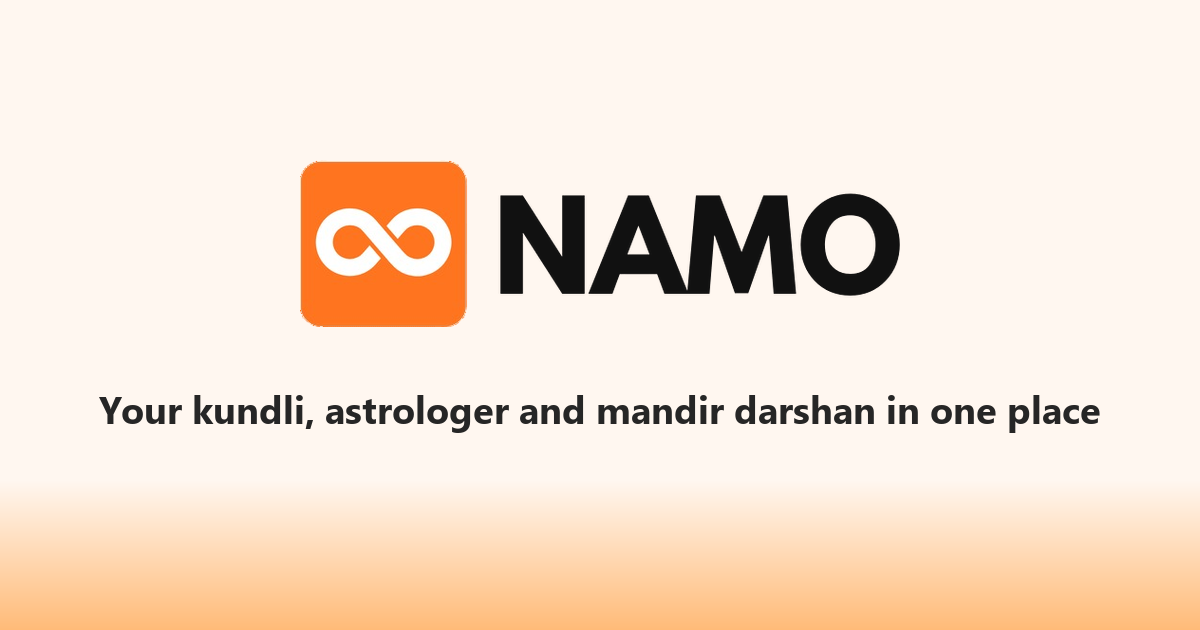
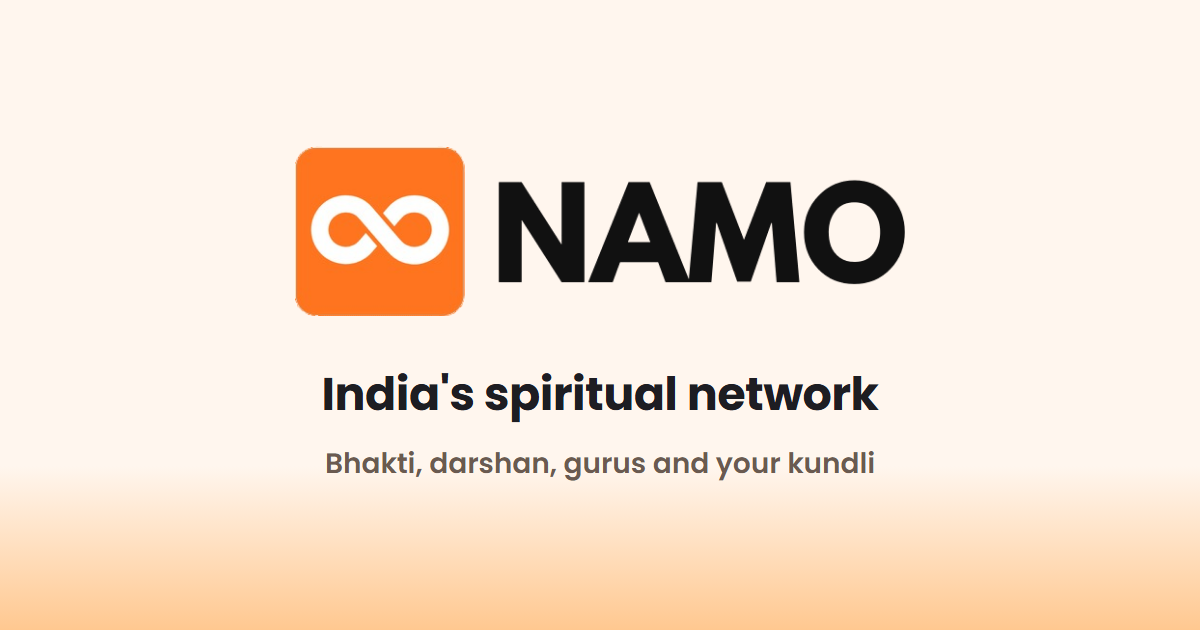
15a: positioned as India's spiritual network — title, description, share card and fallback previews

Changed region(s): [[0.2467, 0.2111, 0.7708, 0.5429], [0.0617, 0.573, 0.925, 0.6937], [0.2467, 0.7238, 0.74, 0.7841]]

diff --git a/index.html b/index.html
@@ -6,7 +6,7 @@
     <meta name="theme-color" content="#ffffff" />
     <meta
       name="description"
-      content="Your kundli, astrologer and mandir darshan in one place. Talk to verified astrologers, read today's rashifal, and sit for darshan."
+      content="India's spiritual network. Follow gurus and astrologers, share your bhakti, sit for darshan every day, and read your kundli."
     />
     <!--
       What WhatsApp, Instagram and every other app show when a 1namo.com link
@@ -16,8 +16,8 @@
     -->
     <meta property="og:type" content="website" />
     <meta property="og:site_name" content="NAMO" />
-    <meta property="og:title" content="NAMO — astrology, darshan and puja" />
-    <meta property="og:description" content="Your kundli, astrologer and mandir darshan in one place." />
+    <meta property="og:title" content="NAMO — India's spiritual network" />
+    <meta property="og:description" content="Bhakti, darshan, gurus and your kundli. Follow, post and share." />
     <meta property="og:url" content="https://1namo.com/" />
     <meta property="og:image" content="https://1namo.com/og.png" />
     <meta property="og:image:width" content="1200" />
@@ -38,7 +38,7 @@
     />
     <link rel="icon" type="image/png" href="/favicon.png" />
     <link rel="apple-touch-icon" href="/apple-touch-icon.png" />
-    <title>NAMO</title>
+    <title>NAMO — India's spiritual network</title>
   </head>
   <body>
     <div id="root"></div>

diff --git a/backend-django/apps/content/share.py b/backend-django/apps/content/share.py
@@ -120,12 +120,17 @@ def _summary(text, limit=180):
     return text if len(text) <= limit else text[: limit - 1].rsplit(" ", 1)[0] + "…"
 
 
+# What a link that matches nothing previews as (13 Oct 2026, Phase 15a:
+# a spiritual network, not "astrology, darshan and the shop").
+SITE_LINE = "India's spiritual network. Bhakti, darshan, gurus and your kundli."
+
+
 def blog_page(request, content_id):
     url = f"{_site()}/read/{content_id}"
     row = Content.objects.filter(pk=content_id, kind=Content.Kind.ARTICLE,
                                  status=Content.Status.LIVE).first()
     if row is None:
-        return _page(_tags(title="NAMO", description="Astrology, darshan and the shop, in one app.",
+        return _page(_tags(title="NAMO", description=SITE_LINE,
                            image=f"{_site()}{FALLBACK_IMAGE}", url=url, kind="website"), url)
     image = f"{_site()}/og/blog/{row.id}.jpg" if row.media_url else f"{_site()}{FALLBACK_IMAGE}"
     return _page(_tags(title=row.title or "A blog on NAMO", description=_summary(row.body),
@@ -229,7 +234,7 @@ def profile_page(request, username):
     url = f"{_site()}/{username}"
     profile, pro = _public_profile(username=username)
     if profile is None:
-        return _page(_tags(title="NAMO", description="Astrology, darshan and puja in one app.",
+        return _page(_tags(title="NAMO", description=SITE_LINE,
                            image=f"{_site()}{FALLBACK_IMAGE}", url=url, kind="website"), url)
     if pro is not None:
         title = f"{profile.name} · {pro.category or 'Pro'} on NAMO"

diff --git a/HANDOFF.md b/HANDOFF.md
@@ -34,6 +34,7 @@ Updated 13 Oct 2026.
 | **15a: like and follow alerts, 13 Oct — built, not deployed** | A like tells the author once per post per IST hour (`dedupe_key` `like:<post>:<hour>`), a follow tells the person once per pair (`follow:<actor>:<target>`), never for your own (`content.services.notify_like` / `notify_follow`, called from `reactions.services`). `notify.push` now inserts inside a savepoint. Alerts are tappable: follow → `/u/:id`, post alerts → `/profile` (`alertHref`). Both apps; the console has no alerts. `docs/03`. Tests `test_social_notifications.py` (5); lint clean; not rendered |
 | **15a: a page per hashtag, 13 Oct — built, not deployed** | `/tag/:tag` (`TagScreen.jsx`, both apps): Newest · Top, feed cards. `GET /v1/content/tag/<tag>/` (`content.services.by_tag`) matches whole-word, case-blind, any script (#शिव is not #शिवरात्रि) among the newest 1,000 live posts; Top by likes + 2 × (saves, comments, reshares). A #tag in a caption links there (it opened Search). `docs/03`, `docs/05`. Tests in `test_social_notifications.py` (3); lint clean; not rendered (needs the API) |
 | **15a: People to follow, 13 Oct — built, not deployed** | A strip after the feed's fifth card, signed in only (`FollowSuggestions` in `Home.jsx`; `GET /v1/content/suggestions/`, `content.services.suggest_follows`): friends of the people you follow first, then authors active in 14 days. Both apps (the pro feed is the same Home). `docs/03`, `docs/05`. Tests (2); lint clean; **not rendered** — it needs a signed-in session. Also: Home's comment calling the feed random is corrected |
+| **15a: positioned as a spiritual network, 13 Oct — built, not deployed** | The welcome screen already read "India's Spiritual Network". Changed: the page title, Google description and share card in `index.html`; `public/og.png` redrawn ("India's spiritual network / Bhakti, darshan, gurus and your kundli"); the API's fallback share text (`share.SITE_LINE`, was "Astrology, darshan and …"). `docs/01-PRD.md` §1 and `CLAUDE.md`'s first line restate the product. Share-preview tests pass |
 | **Bhakti social network, 13 Oct — approved, 15a in progress** | Rahul, Telegram: "karte hai, make a plan"; the owner approved all of 15a to 15d the same day. `docs/06-IMPLEMENTATION.md` Phase 15 (15a positioning and signals, 15b messages, 15c communities and habits, 15d safety and cost). `docs/01-PRD.md` §10 no longer lists a social network or pandit booking as non-goals |
 | **Round verified mark and round avatars, 13 Oct — LIVE (web/pro `631114e`)** | Rahul, Telegram: "both need to be round". `VerifiedMark` is a white tick in a blue circle (was a scalloped rosette). `PopAvatar`'s wrapper is `inline-flex` (was `inline-block`, whose line box made a ringed photo avatar draw oval) — every avatar in both apps. Rendered; lint clean. `docs/04` |
 | **A reshare with words, LinkedIn's layout, 13 Oct — LIVE (`namo-api-00124-h4k`, web/pro `22588f7`)** | Rahul, Telegram (screenshot of "Vishwas Jain reshared / Jai गुरुदेव"). With words: the resharer's photo, name and "Reshared", the words at full size, then the post, reel, blog or Bhakti item in a rounded box (`Quoted`, `ResharedLine` in `Home.jsx`); like, comment and share under the box act on the original. Without words: unchanged. Reshare rows carry `reposted_by_avatar` (content and Bhakti). Both apps (Home and Profile's Reshared tab). `docs/03`. Rendered with the real components and sent to Rahul; lint clean; reshare tests pass |

diff --git a/docs/01-PRD.md b/docs/01-PRD.md
@@ -10,10 +10,12 @@ names a price. It owns no schema, no endpoints and no column names — those are
 
 ## 1. What this is
 
-An astrology marketplace for India. A seeker asks a question; a consultant
-answers it, live, for money. Around that sit the things people who ask such
-questions also want: a daily reading, a birth chart, a shrine, a tarot deck,
-remedial products, and courses.
+India's spiritual network (since 13 Oct 2026, owner's yes to `06` Phase 15;
+it replaced "an astrology marketplace for India"). People follow gurus,
+astrologers and each other, post and share their bhakti, and sit for darshan
+every day. The money is the marketplace inside it: a seeker asks a question
+and a consultant answers it, live, for money. Around that sit a daily reading,
+a birth chart, a shrine, a tarot deck, remedial products, and courses.
 
 Two apps in one phone-shaped codebase, plus a desktop console:
 

diff --git a/CLAUDE.md b/CLAUDE.md
@@ -1,6 +1,7 @@
 # Namo (aether-mono)
 
-Astrology marketplace for India. Vite · React 18 · Tailwind · BrowserRouter
+India's spiritual network, with an astrology marketplace inside it (since
+13 Oct 2026; `docs/01-PRD.md` §1). Vite · React 18 · Tailwind · BrowserRouter
 (real paths; old `#/` links are rewritten on load). Web apps on Firebase
 Hosting, deployed with `npm run ship`; the API on Cloud Run.
 Two apps, one codebase: the seeker app (default build) and the consultant
